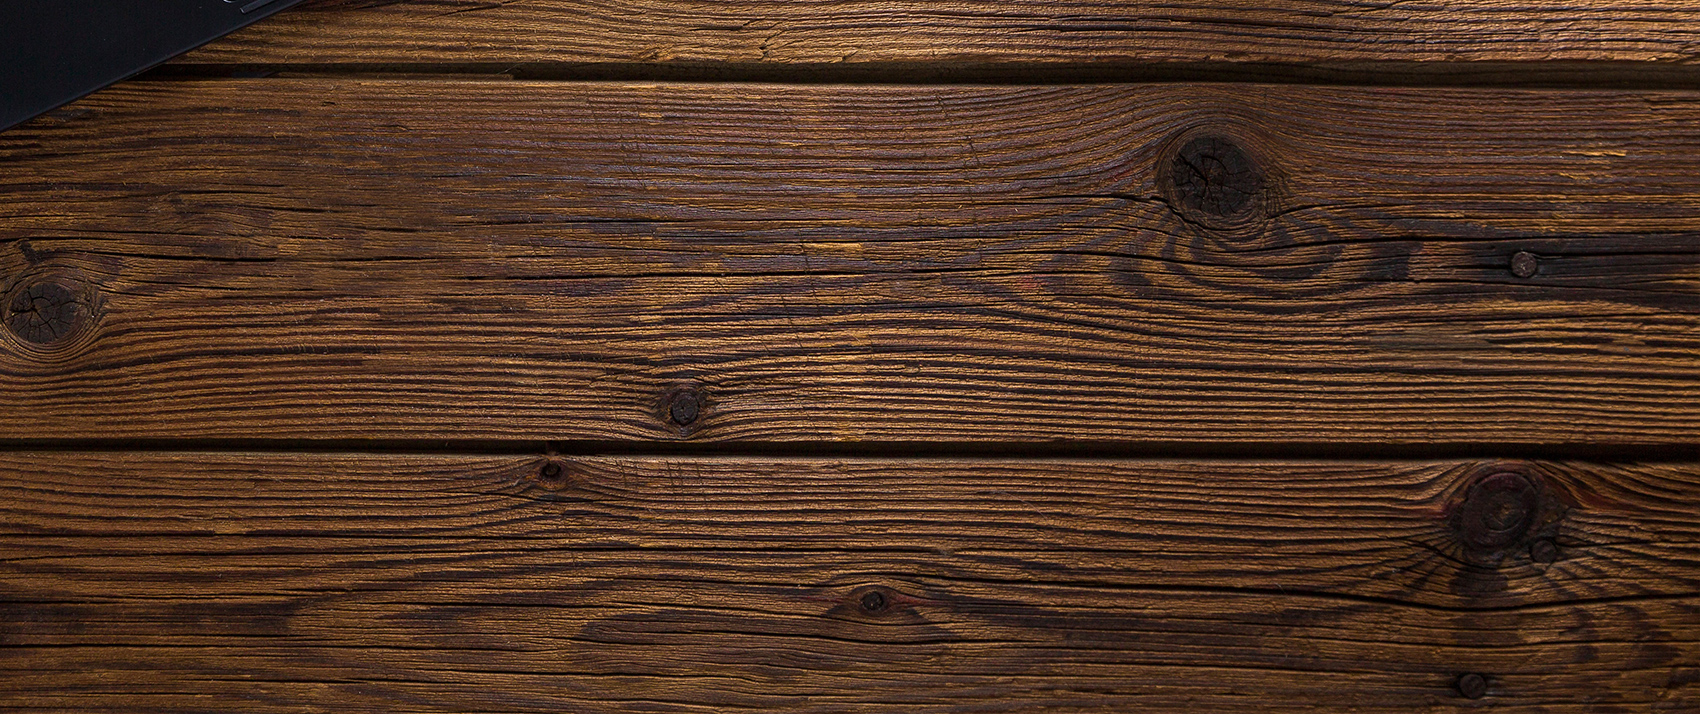
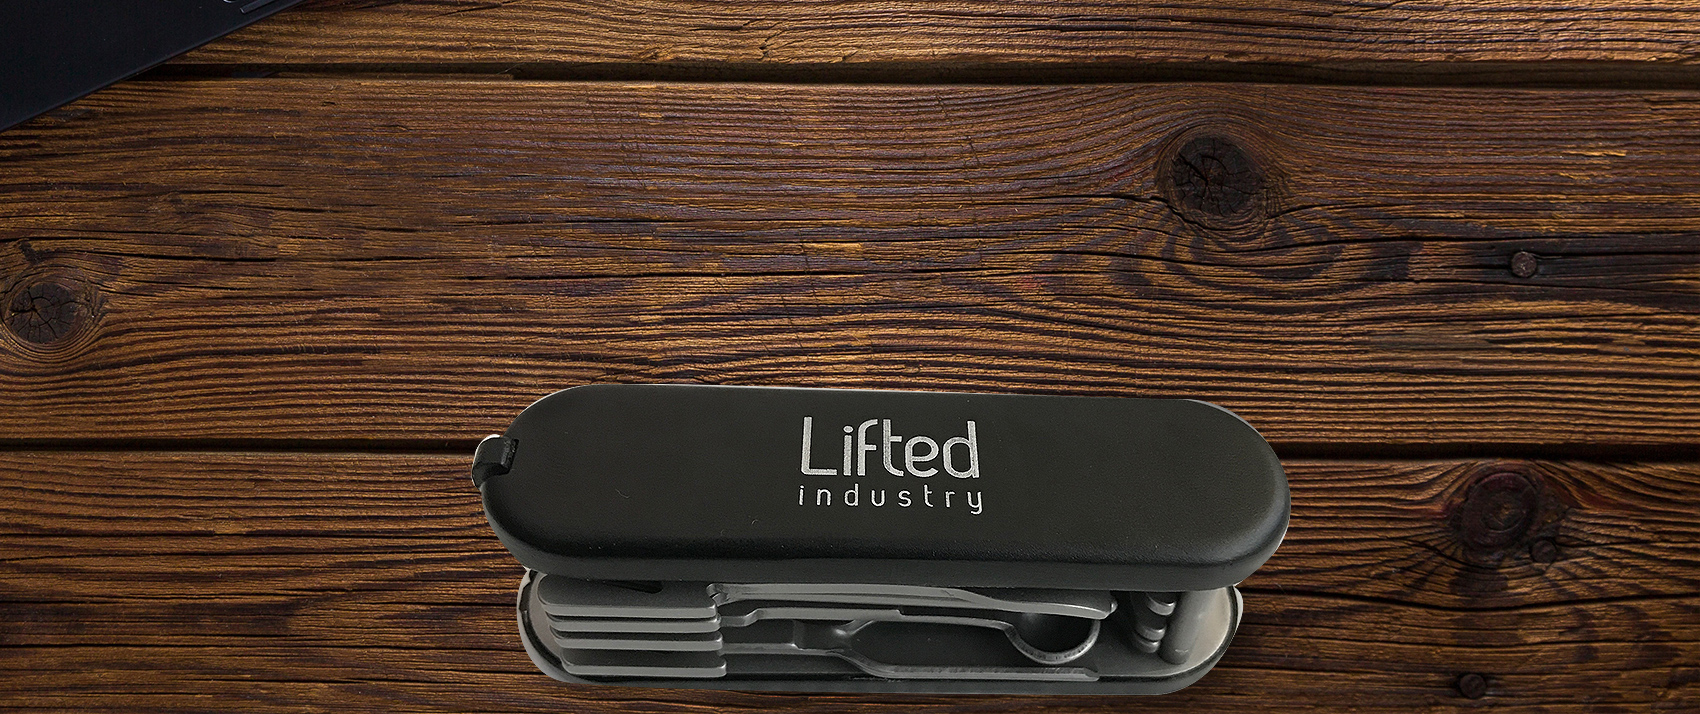
lifted2

Changed region(s): [[0.2806, 0.5238, 0.7794, 1.0]]

diff --git a/lifted/html5up-dopetrope/index.html b/lifted/html5up-dopetrope/index.html
@@ -21,13 +21,24 @@
 					<div id="header">
 
 						<!-- Logo -->
-							<h1><a href="index.html">Lifted Industry</a></h1>
+							<h1><a href="index.html"><img src="http://cdn7.bigcommerce.com/s-dqgs02tk/images/stencil/250x100/lifted_logo_1z_blk_no-tm_1479972571__89455.png"></a></h1>
 
 						<!-- Nav -->
 							<nav id="nav">
 								<ul>
-									<li class="current"><a href="index.html">Home</a></li>
-									<li>
+									<li class="current">
+									<!-- <a href="index.html">Home</a></li> -->
+
+										<li><a href="#intro">PRODUCTS</a></li>
+						<li><a href="#one"> ABOUT </a></li>
+						<li><a href="#two">CONTACT </a></li>
+						<li><a href="#work">STOCKISTS </a></li>
+						<li><a href="#contact">PRIVACY </a></li>
+						<li><a href="#contact"> TERMS  </a></li>
+						<li><a href="#contact">  SHIPPING </a></li>
+						<li><a href="#contact">   RETURNS</a></li>
+
+									<!-- <li>
 										<a href="#">Dropdown</a>
 										<ul>
 											<li><a href="#">Lorem ipsum dolor</a></li>
@@ -45,19 +56,19 @@
 											</li>
 											<li><a href="#">Veroeros feugiat</a></li>
 										</ul>
-									</li>
-									<li><a href="left-sidebar.html">Left Sidebar</a></li>
+									</li> -->
+								<!-- 	<li><a href="left-sidebar.html">Left Sidebar</a></li>
 									<li><a href="right-sidebar.html">Right Sidebar</a></li>
-									<li><a href="no-sidebar.html">No Sidebar</a></li>
+									<li><a href="no-sidebar.html">No Sidebar</a></li> -->
 								</ul>
 							</nav>
 
 						<!-- Banner -->
 							<section id="banner">
 								<header>
-									<h2>10-in-1 Toker Multi-Tool</h2>
+									<!-- <h2>10-in-1 Toker Multi-Tool</h2> -->
 									<!-- <p>The essential multi-tool for smoke, vape, and pipe problem solving.</p> -->
-									<spanb class="smalltxt">Lifted Industry's 10-in-1 Toker Multi-Tool provides you with all the essential tools needed for smoke and pipe problem solving in one portable and rugged multi-tool. Tools Included: Fork, Bottle Opener, Angled Edge, Packer, Scissors, Spatula, Poker, Scoop, Shovel, Pick, Roach Clip.</span>
+								<!-- 	<spanb class="smalltxt">Lifted Industry's 10-in-1 Toker Multi-Tool provides you with all the essential tools needed for smoke and pipe problem solving in one portable and rugged multi-tool. Tools Included: Fork, Bottle Opener, Angled Edge, Packer, Scissors, Spatula, Poker, Scoop, Shovel, Pick, Roach Clip.</span> -->
 								</header>
 							</section>
 

diff --git a/lifted/html5up-big-picture/index.html b/lifted/html5up-big-picture/index.html
@@ -91,12 +91,12 @@
 			<section id="work" class="main style3 primary">
 				<div class="content">
 					<header>
-						<h2>Who Are We?</h2>
-						<p>Lifted Industry is a Seattle-based company founded in 2014 fueled by a commitment to make life more enjoyable using great design and our passion for people. We are a team of three Pacific Northwest natives with over 40 years of experience in industrial design, consumer products, marketing and development.
+						<h2>The Tools</h2>
+						<!-- <p>Lifted Industry is a Seattle-based company founded in 2014 fueled by a commitment to make life more enjoyable using great design and our passion for people. We are a team of three Pacific Northwest natives with over 40 years of experience in industrial design, consumer products, marketing and development.
 						</p>
 
 						<h2>Our Mission</h2>
-						<p>Our mission is to streamline the path to lifted lifestyles everywhere! We strive to deliver value by innovating new smoking accessories and continuously improving. Our development process is centered around solving problems for users while creating accessories with a perfect balance of quality, functionality and attention to detail. </p>
+						<p>Our mission is to streamline the path to lifted lifestyles everywhere! We strive to deliver value by innovating new smoking accessories and continuously improving. Our development process is centered around solving problems for users while creating accessories with a perfect balance of quality, functionality and attention to detail. </p> -->
 					</header>
 
 					<!-- Gallery  -->

diff --git a/lifted/html5up-dopetrope/assets/css/main.css b/lifted/html5up-dopetrope/assets/css/main.css
@@ -1655,11 +1655,12 @@
 /* Banner */
 
 	#banner {
-		background: #CCE8F4 url("../../images/li-pic01.jpg");
-		background-position: bottom;
-		background-size: cover;
-		background-repeat: no-repeat;
-		text-align: center;
+		/*background: #CCE8F4 url("../../images/li-pic01.jpg");*/
+    background: #fff url(../../images/header8.jpg);
+    background-position: bottom center;
+    background-size: cover;
+    background-repeat: no-repeat;
+    text-align: center;
 	}
 
 		#banner header {
@@ -2005,8 +2006,8 @@
 
 			#banner {
 				position: relative;
-				padding: 12em 0;
-				margin: 4em 0 0 0;
+				padding: 18em 0;
+				margin: 0em 0 0 0;
 			}
 
 				#banner header {
